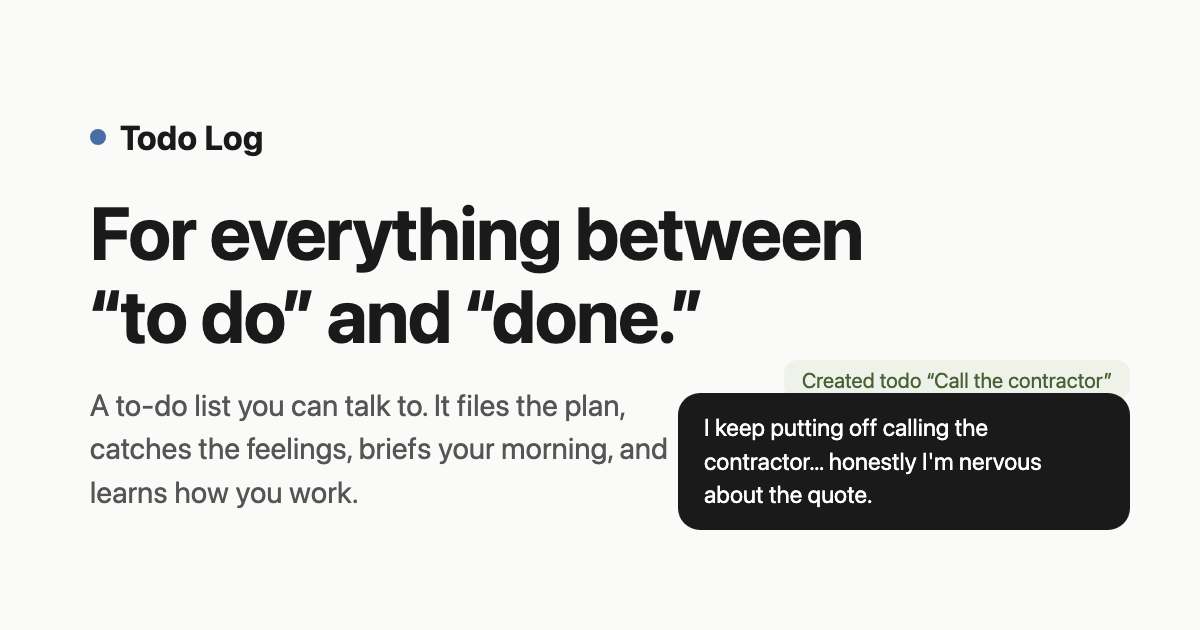
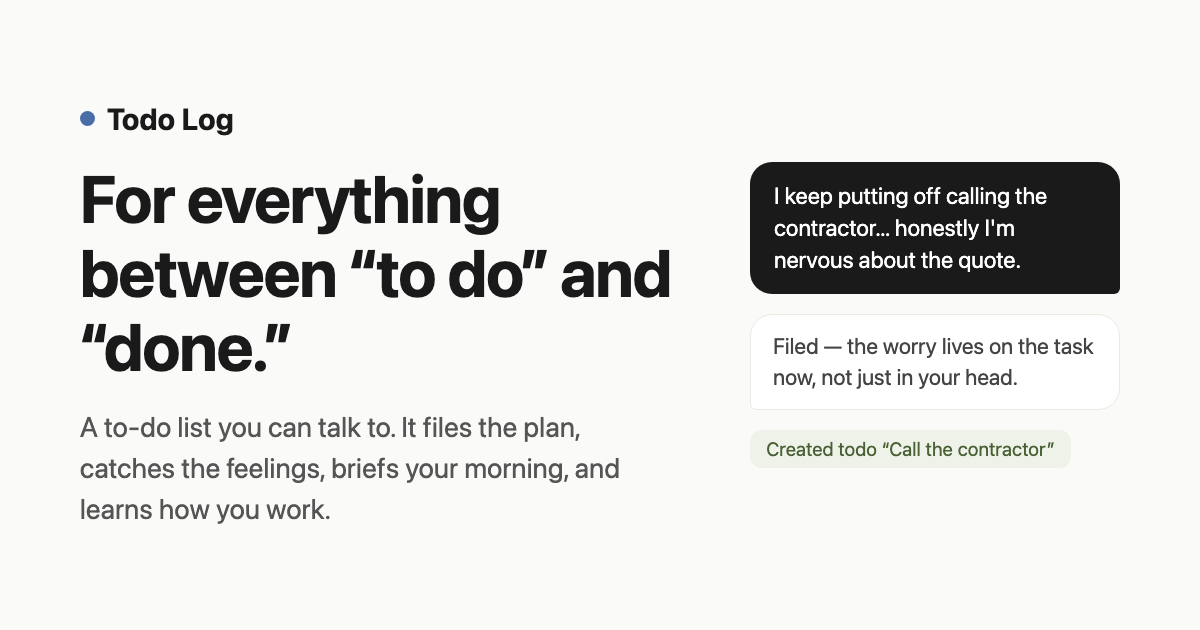
OG card v2: two-column layout, conversation in order, no dead space
User bubble, agent reply, then the filed-todo chip in a right column beside
the copy; image URL cache-busted (?v=2) for scrapers.

Claude-Session: https://claude.ai/code/session_018brApy7QfkKFVr1cboVPgc

Changed region(s): [[0.0617, 0.2413, 0.9558, 0.6032], [0.0617, 0.5429, 0.9558, 0.8444], [0.0617, 0.1508, 0.2158, 0.2413]]

diff --git a/index.html b/index.html
@@ -19,7 +19,7 @@
     />
     <meta property="og:type" content="website" />
     <meta property="og:url" content="https://todolo.gg/" />
-    <meta property="og:image" content="https://todolo.gg/og.png" />
+    <meta property="og:image" content="https://todolo.gg/og.png?v=2" />
     <meta property="og:image:width" content="1200" />
     <meta property="og:image:height" content="630" />
     <meta name="twitter:card" content="summary_large_image" />
@@ -28,7 +28,7 @@
       name="twitter:description"
       content="A to-do list you can talk to. It files the plan, catches the feelings, briefs your morning, and learns how you work."
     />
-    <meta name="twitter:image" content="https://todolo.gg/og.png" />
+    <meta name="twitter:image" content="https://todolo.gg/og.png?v=2" />
       <link rel="manifest" href="/manifest.webmanifest" />
   </head>
   <body>
